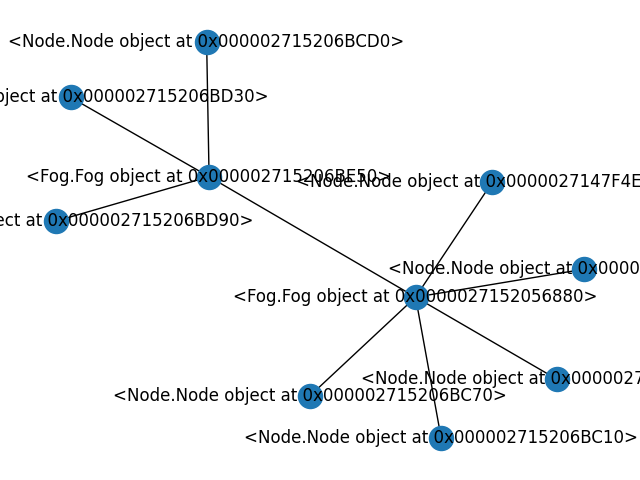
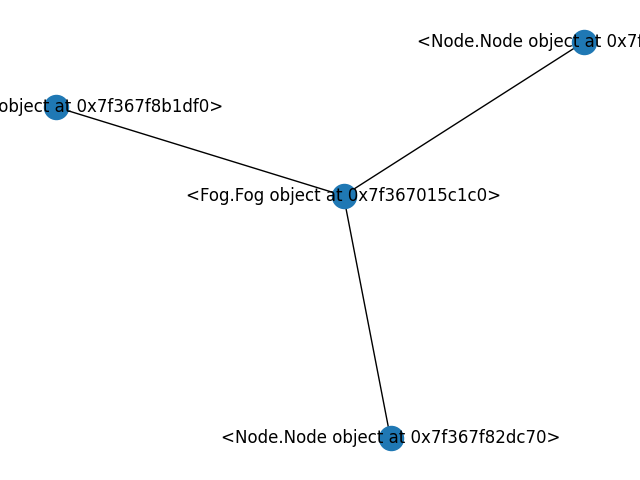
friday

diff --git a/main.py b/main.py
@@ -5,82 +5,88 @@ import matplotlib.pyplot as plt
 import CreateLattice as Cl
 
 if __name__ == '__main__':
-    n1 = Node.Node(1, ['s1', 's2', 's3', 's4', 's5', 's6', 's7', 's8'], ['d1', 'd2', 'd3', 'd4', 'd5', 'd6'])
-    n2 = Node.Node(2, ['s1', 's2', 's3', 's4'], ['d1', 'd2', 'd3', 'd4'])
-    n3 = Node.Node(3, ['s1', 's2'], ['d1', 'd2', 'd3'])
-    n4 = Node.Node(4, ['s1', 's2', 's3', 's4', 's5'], ['d1', 'd2', 'd3'])
-    n5 = Node.Node(5, ['s1', 's2', 's3', 's4', 's5', 's6'], ['d1', 'd2', 'd3', 'd4', 'd5'])
+    n1 = Node.Node(1, ['s1', 's2', 's3'], ['d1', 'd2'])
+    n2 = Node.Node(2, ['s1', 's2'], ['d1'])
+    n3 = Node.Node(3, ['s3'], ['d1', 'd2'])
+    n0 = Node.Node(0, ['s4'], ['d3', 'd4'])
 
-    n6 = Node.Node(6, ['s1', 's2', 's3', 's4', 's5', 's6', 's7', 's8'], ['d8', 'd9', 'd10'])
-    n7 = Node.Node(7, ['s1', 's2', 's3', 's4'], ['d8', 'd9'])
-    n8 = Node.Node(8, ['s1', 's2'], ['d10'])
+    dict1 = n1.delta()
 
-    print(n5)
-    help(n5)
+    # Cl.activate_points(dict1)
+    print("dict : ", dict1)
+    # n5 = Node.Node(5, ['s1', 's2', 's3', 's4', 's5', 's6'], ['d1', 'd2', 'd3', 'd4', 'd5'])
+    # n4 = Node.Node(4, ['s1', 's2', 's3', 's4', 's5'], ['d1', 'd2', 'd3'])
+
+    # n6 = Node.Node(6, ['s1', 's2', 's3', 's4', 's5', 's6', 's7', 's8'], ['d8', 'd9', 'd10'])
+    # n7 = Node.Node(7, ['s1', 's2', 's3', 's4'], ['d8', 'd9'])
+    # n8 = Node.Node(8, ['s1', 's2'], ['d10'])
+
+    # print(n5)
+    # help(n5)
     # dir(n5)
     # print(n1.set_of_services)
     f1 = fg.Fog(101, 'fog1')
-    f2 = fg.Fog(102, 'fog2')
+    # f2 = fg.Fog(102, 'fog2')
 
     network = nx.Graph()
     network.add_node(n1)
     network.add_node(n2)
     network.add_node(n3)
-    network.add_node(n4)
-    network.add_node(n5)
-    network.add_node(n6)
-    network.add_node(n7)
-    network.add_node(n8)
-    network.add_node(f1)
-    network.add_node(f2)
-
+    # network.add_node(n4)
+    # network.add_node(n5)
+    # network.add_node(n6)
+    # network.add_node(n7)
+    # network.add_node(n8)
+    # network.add_node(f1)
+    # network.add_node(f2)
+    #
     network.add_edge(f1, n1)
     network.add_edge(f1, n2)
     network.add_edge(f1, n3)
-    network.add_edge(f1, n4)
-    network.add_edge(f1, n5)
+    # network.add_edge(f1, n4)
+    # network.add_edge(f1, n5)
 
-    network.add_edge(f2, n6)
-    network.add_edge(f2, n7)
-    network.add_edge(f2, n8)
-
-    network.add_edge(f2, f1)
+    # network.add_edge(f2, n6)
+    # network.add_edge(f2, n7)
+    # network.add_edge(f2, n8)
+    #
+    # network.add_edge(f2, f1)
 
     f1_list = network.neighbors(f1)
-    f2_list = network.neighbors(f2)
+    # f2_list = network.neighbors(f2)
 
     Datacontexts = set()
     Serviceset = []
     for each in f1_list:
         if hasattr(each, 'ID'):
-            print(each.ID, each.set_of_services, each.set_of_dataContexts)
+            # print(each.ID, each.set_of_services, each.set_of_dataContexts)
             Datacontexts.update(set(each.set_of_dataContexts))
             Serviceset.append(each.set_of_services)
     f1.Dc = Datacontexts.copy()
     f1.Sc_union = Serviceset.copy()
     Datacontexts.clear()
     Serviceset.clear()
-    for each in f2_list:
-        if hasattr(each, 'ID'):
-            print(each.ID, each.set_of_services, each.set_of_dataContexts)
-            Datacontexts.update(set(each.set_of_dataContexts))
-            Serviceset.append(each.set_of_services)
+    # for each in f2_list:
+    #     if hasattr(each, 'ID'):
+    #         print(each.ID, each.set_of_services, each.set_of_dataContexts)
+    #         Datacontexts.update(set(each.set_of_dataContexts))
+    #         Serviceset.append(each.set_of_services)
+    #
+    # f2.Dc = Datacontexts.copy()
+    # f2.Sc_union = Serviceset.copy()
 
-    f2.Dc = Datacontexts.copy()
-    f2.Sc_union = Serviceset.copy()
-
-    print("Data Contexts of Cluster 1", f1.Dc)
-    print("Union of Services of the Cluster 1", f1.Sc_union)
+    # print("Data Contexts of Cluster 1", f1.Dc)
+    # print("Union of Services of the Cluster 1", f1.Sc_union)
 
 
-    print("Data Contexts of Cluster 2", f2.Dc)
-    print("Union of Services of the Cluster 2", f2.Sc_union)
+    # print("Data Contexts of Cluster 2", f2.Dc)
+    # print("Union of Services of the Cluster 2", f2.Sc_union)
 
 
 
     # string = ['a', 'b', 'c', 'd']
-    Cl.CreateLattice(f1.Dc)
-    Cl.CreateLattice(f2.Dc)
+    Cl.CreateLattice(f1.Dc,dict1)
+    # Cl.CreateLattice(f2.Dc)
 
     nx.draw(network, with_labels=True)
     plt.savefig("f1.png")

diff --git a/Lattice.py b/Lattice.py
@@ -1,3 +1,4 @@
+import CreateLattice as Cl
 class Lattice(object):
     def __init__(self, Uelements,join_func,meet_func):
         '''Create a lattice:
@@ -22,6 +23,9 @@ class Lattice(object):
         '''
         return LatticeElement(self,object)
 
+    def get_uelements(self):
+        return self.Uelements
+
     def WElementByIndex(self,ElementIndex):
         return LatticeElement(self,self.Uelements[ElementIndex])
 
@@ -39,14 +43,17 @@ class Lattice(object):
             botton &= self.wrap(element)
         return botton
 
-    def Hasse(self):
+    def Hasse(self, dict1):
         graph=dict()
+        graph_str = dict()
         for indexS,elementS in enumerate(self.Uelements):
             graph[indexS]=[]
             for indexD,elementD in enumerate(self.Uelements):
                 if self.wrap(elementS) <= self.wrap(elementD):
                     if not bool( sum([ int(self.WElementByIndex(x) <= self.wrap(elementD)) for x in graph[indexS]])) and not elementS==elementD:
                         graph[indexS]+=[indexD]
+        # print(graph.items())
+        # print(self.Uelements)
         dotcode='digraph G {\nsplines="line"\nrankdir=BT\n'
         dotcode+='\"'+str(self.TopElement.unwrap)+'\" ;\n'
         dotcode+='\"'+str(self.BottonElement.unwrap)+'\" ;\n'
@@ -56,13 +63,22 @@ class Lattice(object):
                 dotcode += " -> "
                 dotcode += "\""+str(self.WElementByIndex(d))+"\""
                 dotcode += "[ style=dotted arrowhead=none ];\n"
+                # graph_str[str(self.WElementByIndex(s))] += str(self.WElementByIndex(d))
+        # dotcode += Cl.activate_points(dict1)
         dotcode += "}"
         try:
             from scapy.all import do_graph
             do_graph(dotcode)
         except:
             pass
-        return dotcode
+        print(graph)
+        print(self.Uelements)
+        for i, ele in graph.items():
+            # print(self.Uelements[i])
+            for k in ele:
+                print(self.Uelements[k])
+            graph_str[str(self.Uelements[i])] = [self.Uelements[k] for k in ele]
+        return graph_str
 
     def __repr__(self):
         """Represents the lattice as an instance of Lattice."""

diff --git a/CreateLattice.py b/CreateLattice.py
@@ -1,5 +1,4 @@
 from itertools import combinations
-
 import Lattice as L
 
 
@@ -19,13 +18,30 @@ def create_powerset(s):
     return PowerSet
 
 
-def CreateLattice(datacontexts):
+def CreateLattice(datacontexts, dict1):
     Power_set = create_powerset(datacontexts)
     lattice1 = L.Lattice(Power_set, union, intersection)
-    print(lattice1.Hasse())
-    print("Bottom Element : ", lattice1.BottonElement, "Top Element : ", lattice1.TopElement)
+    print(lattice1.Hasse(dict1))
+    # print("Bottom Element : ", lattice1.BottonElement, "Top Element : ", lattice1.TopElement)
 
 
+def activate_points(Service_dict):
+    # Remove(Service_dict)
+    # print(Service_dict)
+    dotcode = ''
+    # Uelements = L.Lattice.get_uelements()
+    # for s, ds in graph.items():
+            # for d in ds:
+    for s in Service_dict.keys():
+        dotcode += "\""+str(set())+"\""
+        dotcode += " -> "
+        dotcode += "\""+str(Service_dict[s])+"\""
+        dotcode += "[arrowhead=none ];\n"
+    return dotcode
+
+# def Remove(Servicedict):
+#     service_dict {}
+#     for key, value
 
 
 

diff --git a/Node.py b/Node.py
@@ -9,10 +9,11 @@ class Node:
         self.ID = ID
         self.set_of_services = S
         self.set_of_dataContexts = D
+        # self.FID = FID
 
     def delta(self):
+        service_dict = {}
         for s in self.set_of_services:
-            print(s, random.sample(self.set_of_dataContexts, random.randint(0, 3)))
-
-
-
+            print(s, random.sample(self.set_of_dataContexts, random.randint(0, len(self.set_of_dataContexts))))
+            service_dict[s] = set(random.sample(self.set_of_dataContexts, random.randint(0, len(self.set_of_dataContexts))))
+        return service_dict

diff --git a/Infrastructure.py b/Infrastructure.py
@@ -1,0 +1,10 @@
+
+
+
+
+class Infrastructure:
+    def __init__(self, no_of_nodes, no_of_fognodes = 2):
+        FID =
+
+
+

diff --git a/Test.py b/Test.py
@@ -9,3 +9,5 @@ class Test:
 
 # p1 = Person("John", 36)
 # p1.myfunc()
+s = {'1'}
+print(dir(s))
